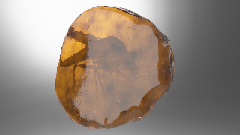
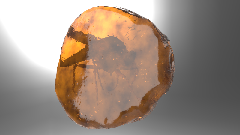
Improve transmission color fidelity
Reconstruct linear scene color before transmission shading, support explicit tone-mapping state, tighten independent gates, and align scene176 with the pinned sandbox image-processing setup.

Copilot-Session: 87ef8b8e-7295-4ff1-8150-ae097b0a41e5

diff --git a/src/scene-registry.ts b/src/scene-registry.ts
@@ -243,8 +243,8 @@ export const scenes: readonly SceneDefinition[] = [
             },
             actual: "artifacts/parity/transmission-scene-color-native.png",
             outputDirectory: "artifacts/parity/transmission-scene-color",
-            maxFullMad: 4,
-            maxForegroundMad: 31,
+            maxFullMad: 0.5,
+            maxForegroundMad: 3.2,
             backgroundColor: [51, 51, 77],
             backgroundThreshold: 30,
         },
@@ -263,8 +263,8 @@ export const scenes: readonly SceneDefinition[] = [
             },
             actual: "artifacts/parity/transmission-ior-native.png",
             outputDirectory: "artifacts/parity/transmission-ior",
-            maxFullMad: 5.1,
-            maxForegroundMad: 14,
+            maxFullMad: 1,
+            maxForegroundMad: 2.5,
             backgroundColor: [51, 51, 77],
             backgroundThreshold: 30,
         },
@@ -283,8 +283,8 @@ export const scenes: readonly SceneDefinition[] = [
             },
             actual: "artifacts/parity/transmission-volume-native.png",
             outputDirectory: "artifacts/parity/transmission-volume",
-            maxFullMad: 2.8,
-            maxForegroundMad: 8,
+            maxFullMad: 2.7,
+            maxForegroundMad: 7.2,
             backgroundColor: [51, 51, 77],
             backgroundThreshold: 30,
         },
@@ -303,8 +303,8 @@ export const scenes: readonly SceneDefinition[] = [
             },
             actual: "artifacts/parity/scene176-native.png",
             outputDirectory: "artifacts/parity/scene176",
-            maxFullMad: 5.2,
-            maxForegroundMad: 5.2,
+            maxFullMad: 5.3,
+            maxForegroundMad: 5.3,
             backgroundColor: [51, 51, 77],
             backgroundThreshold: 30,
             attribution: {

diff --git a/src/compiler.ts b/src/compiler.ts
@@ -508,8 +508,18 @@ class Compiler {
             const scene = this.lookup(left.expression.expression);
             this.expectKind(scene, "scene", left.expression.expression);
             const property = left.name.text;
-            if (!["exposure", "contrast"].includes(property)) {
+            if (
+                !["exposure", "contrast", "toneMappingEnabled"].includes(
+                    property,
+                )
+            ) {
                 this.fail(left.name, `Unsupported image-processing property '${property}'.`);
+            }
+            if (property === "toneMappingEnabled") {
+                this.emit(
+                    `${scene.cpp}.environment.tone_mapping_enabled = ${this.compileBoolean(expression.right)};`,
+                );
+                return;
             }
             this.emit(
                 `${scene.cpp}.environment.${property} = ${this.compileNumber(expression.right)};`,

diff --git a/test/shader-pipeline.test.ts b/test/shader-pipeline.test.ts
@@ -205,6 +205,8 @@ test("generates Tint PBR color, diagnostics, and geometry WGSL", () => {
     assert.match(color, /fn mainFragment/);
     assert.match(color, /@location\(6u\) v_118/);
     assert.match(color, /normalOptions\.w/);
+    assert.match(color, /sceneTransmission = pow/);
+    assert.match(color, /sceneTransmission = -log2/);
     assert.match(color, /@binding\(12u\) var sceneColorTexture/);
     assert.match(color, /refract\(/);
     assert.match(color, /exp\(FragmentUniforms\.volumeParams\.rgb \* thickness\)/);

diff --git a/examples/scene176-mosquito-in-amber.ts b/examples/scene176-mosquito-in-amber.ts
@@ -44,6 +44,7 @@ async function main(): Promise<void> {
         "https://assets.babylonjs.com/environments/studio.env",
         { skipSkybox: true, skipGround: true, brdfUrl: "/brdf-lut.png" },
     );
+    scene.imageProcessing.toneMappingEnabled = false;
     scene.imageProcessing.exposure = 1;
     scene.imageProcessing.contrast = 1;
 

diff --git a/docs/status.md b/docs/status.md
@@ -52,10 +52,10 @@ Thresholds live in `src/scene-registry.ts`; run one scene with
 | 163 | <img src="images/scenes/scene163.png" alt="Scene 163 rendering" width="120"> | 0.000 | 0.000 | custom shader blend, alpha test, discard |
 | 168 | <img src="images/scenes/scene168.png" alt="Scene 168 rendering" width="120"> | 0.068 | 0.389 | mirrored double-sided winding; 100% within one byte |
 | transmission-skybox | <img src="images/scenes/transmission-skybox.png" alt="PBR skybox rendering" width="120"> | 0.091 | 0.091 | independent PBR skybox-mode gate |
-| transmission-scene-color | <img src="images/scenes/transmission-scene-color.png" alt="Scene-color transmission" width="120"> | 3.797 | 29.629 | scene-color copy and transmission |
-| transmission-ior | <img src="images/scenes/transmission-ior.png" alt="Transmission IOR" width="120"> | 4.846 | 12.806 | dielectric Fresnel from IOR |
-| transmission-volume | <img src="images/scenes/transmission-volume.png" alt="Transmission volume" width="120"> | 2.664 | 7.111 | Beer-Lambert volume attenuation |
-| 176 | <img src="images/scenes/scene176.png" alt="Mosquito in Amber" width="120"> | 5.022 | 5.022 | integrated transmission, IOR, volume, and scene-color copy |
+| transmission-scene-color | <img src="images/scenes/transmission-scene-color.png" alt="Scene-color transmission" width="120"> | 0.384 | 2.873 | scene-color copy and transmission |
+| transmission-ior | <img src="images/scenes/transmission-ior.png" alt="Transmission IOR" width="120"> | 0.855 | 2.164 | dielectric Fresnel from IOR |
+| transmission-volume | <img src="images/scenes/transmission-volume.png" alt="Transmission volume" width="120"> | 2.584 | 6.896 | Beer-Lambert volume attenuation |
+| 176 | <img src="images/scenes/scene176.png" alt="Mosquito in Amber" width="120"> | 5.221 | 5.220 | integrated transmission, IOR, volume, and scene-color copy |
 | 213 | <img src="images/scenes/scene213.png" alt="Scene 213 rendering" width="120"> | 0.001 | 0.012 | GridMaterial opaque/transparent families and ordered draw lists |
 | 248 | <img src="images/scenes/scene248.png" alt="Scene 248 rendering" width="120"> | 0.001 | 0.005 | external glTF and sampler modes |
 | 249 | <img src="images/scenes/scene249.png" alt="Scene 249 rendering" width="120"> | 0.001 | 0.028 | vertex-color alpha and mask cutoff |
